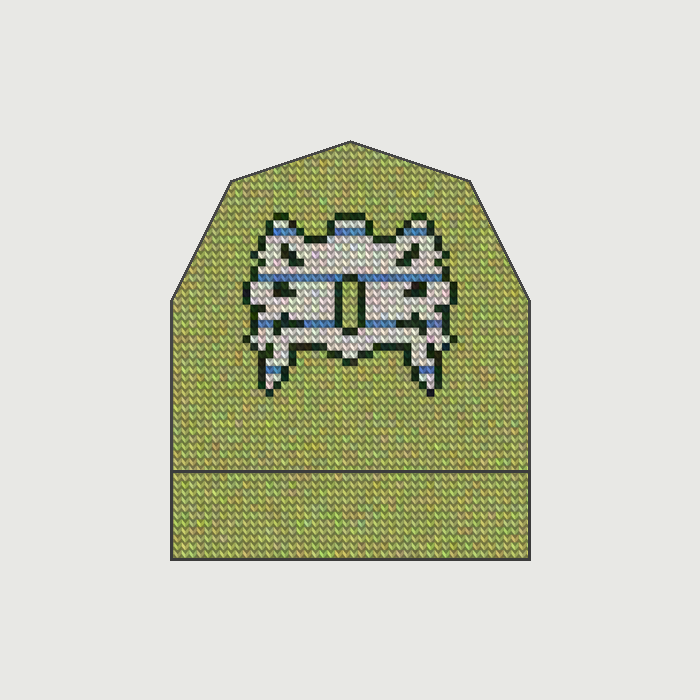
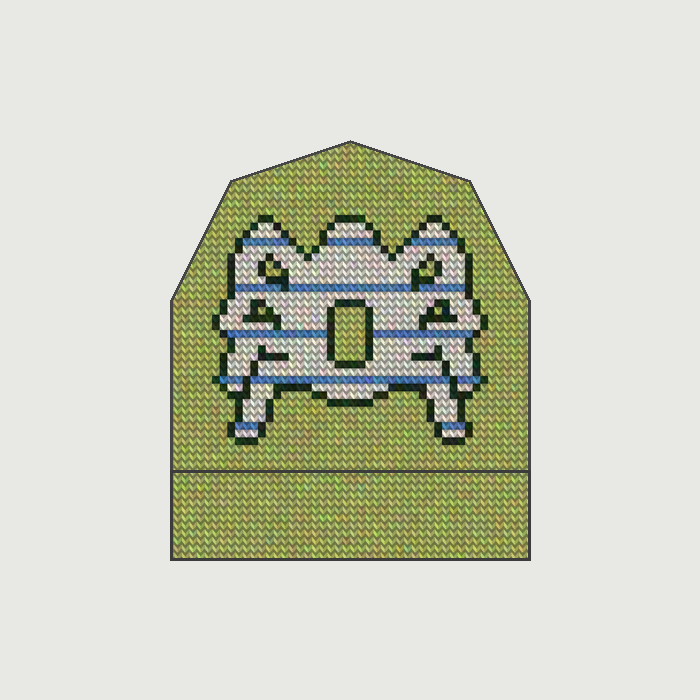
Beanie: mite smaller, keeps legs
Claude-Session: https://claude.ai/code/session_019Ej1kUfXqbXfdi9TQXfn9k

Changed region(s): [[0.24, 0.21, 0.78, 0.81]]

diff --git a/fashion/garments.py b/fashion/garments.py
@@ -41,9 +41,9 @@ def beanie_fill():
     sys.path.insert(0, os.path.join(HERE, "..", "fine-art"))
     import knit, cutouts
     g, body, stripe, line = knit.YARNS["Mite"]
-    sw = knit.render(knit.chart(cutouts.mite, 48, 60, (11, 10, 26)), [g, body, stripe, line], np.random.default_rng(5)).convert("RGB")
+    sw = knit.render(knit.chart(cutouts.mite, 48, 66, (7, 14, 34)), [g, body, stripe, line], np.random.default_rng(5)).convert("RGB")
     sw = sw.resize((int(sw.width * .32), int(sw.height * .32)), Image.LANCZOS)
-    f = Image.new("RGB", (C, C), g); f.paste(sw, (166, 113))
+    f = Image.new("RGB", (C, C), g); f.paste(sw, (166, 77))
     return f
 
 
